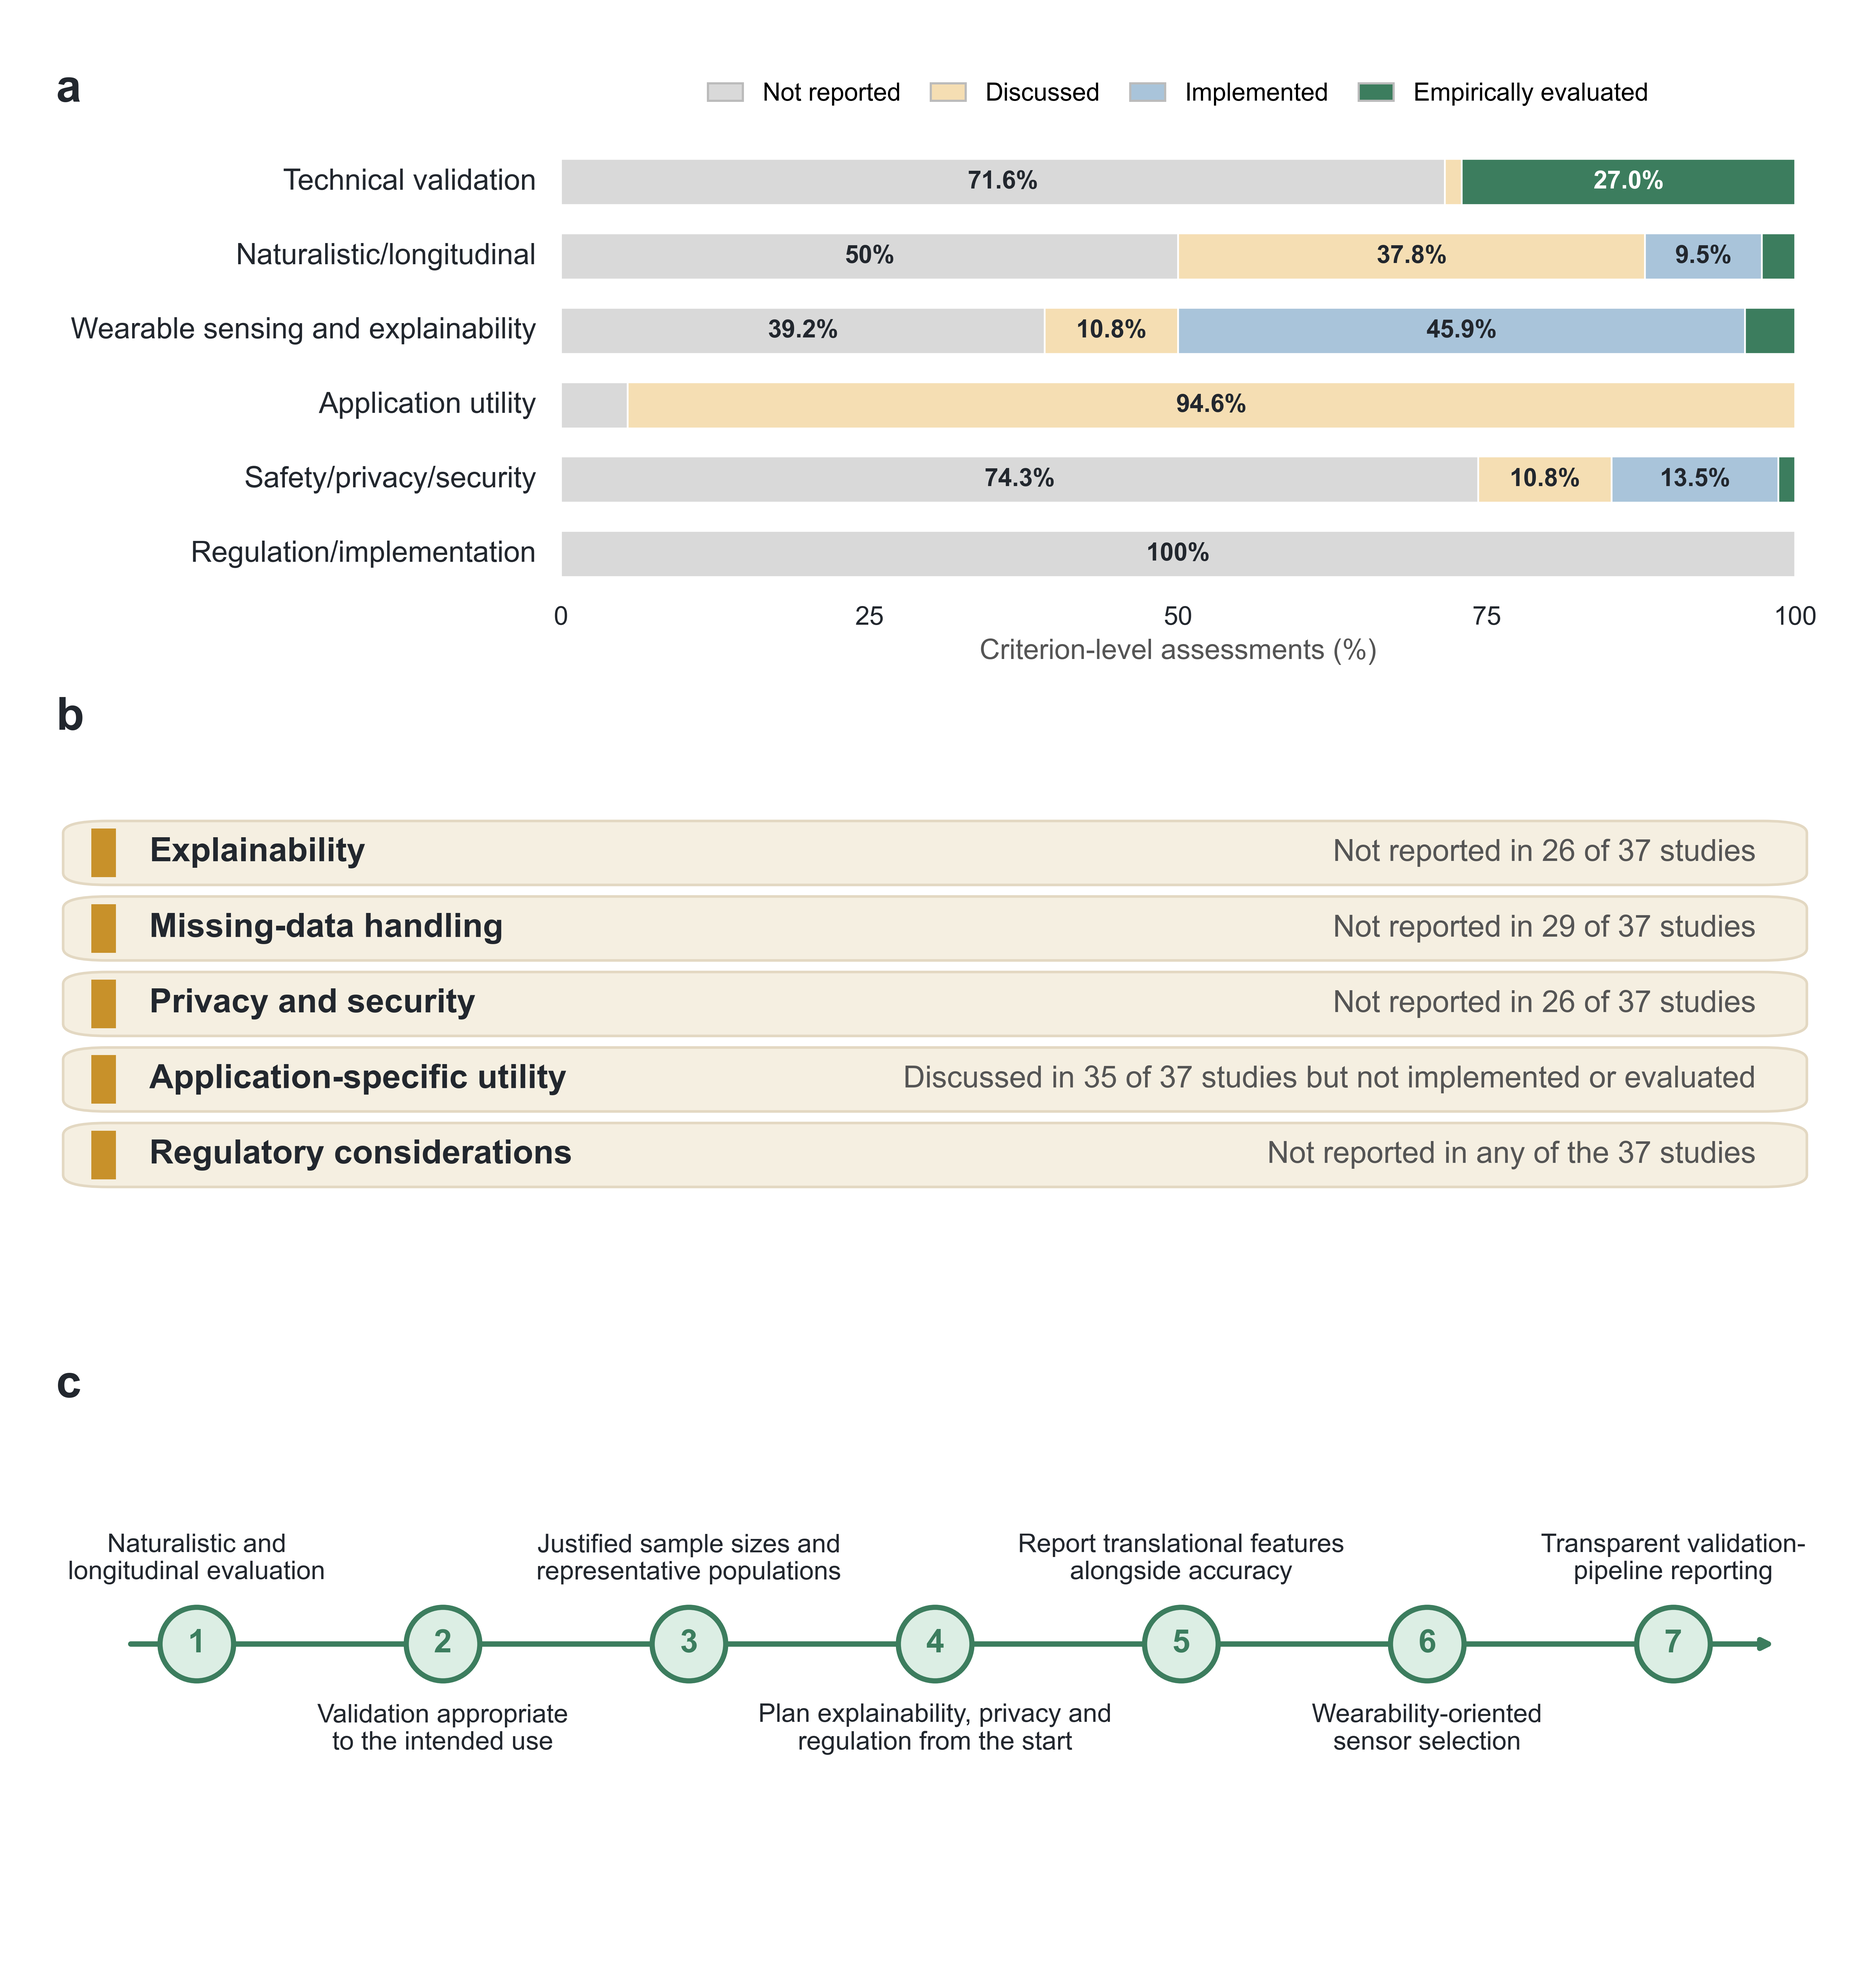
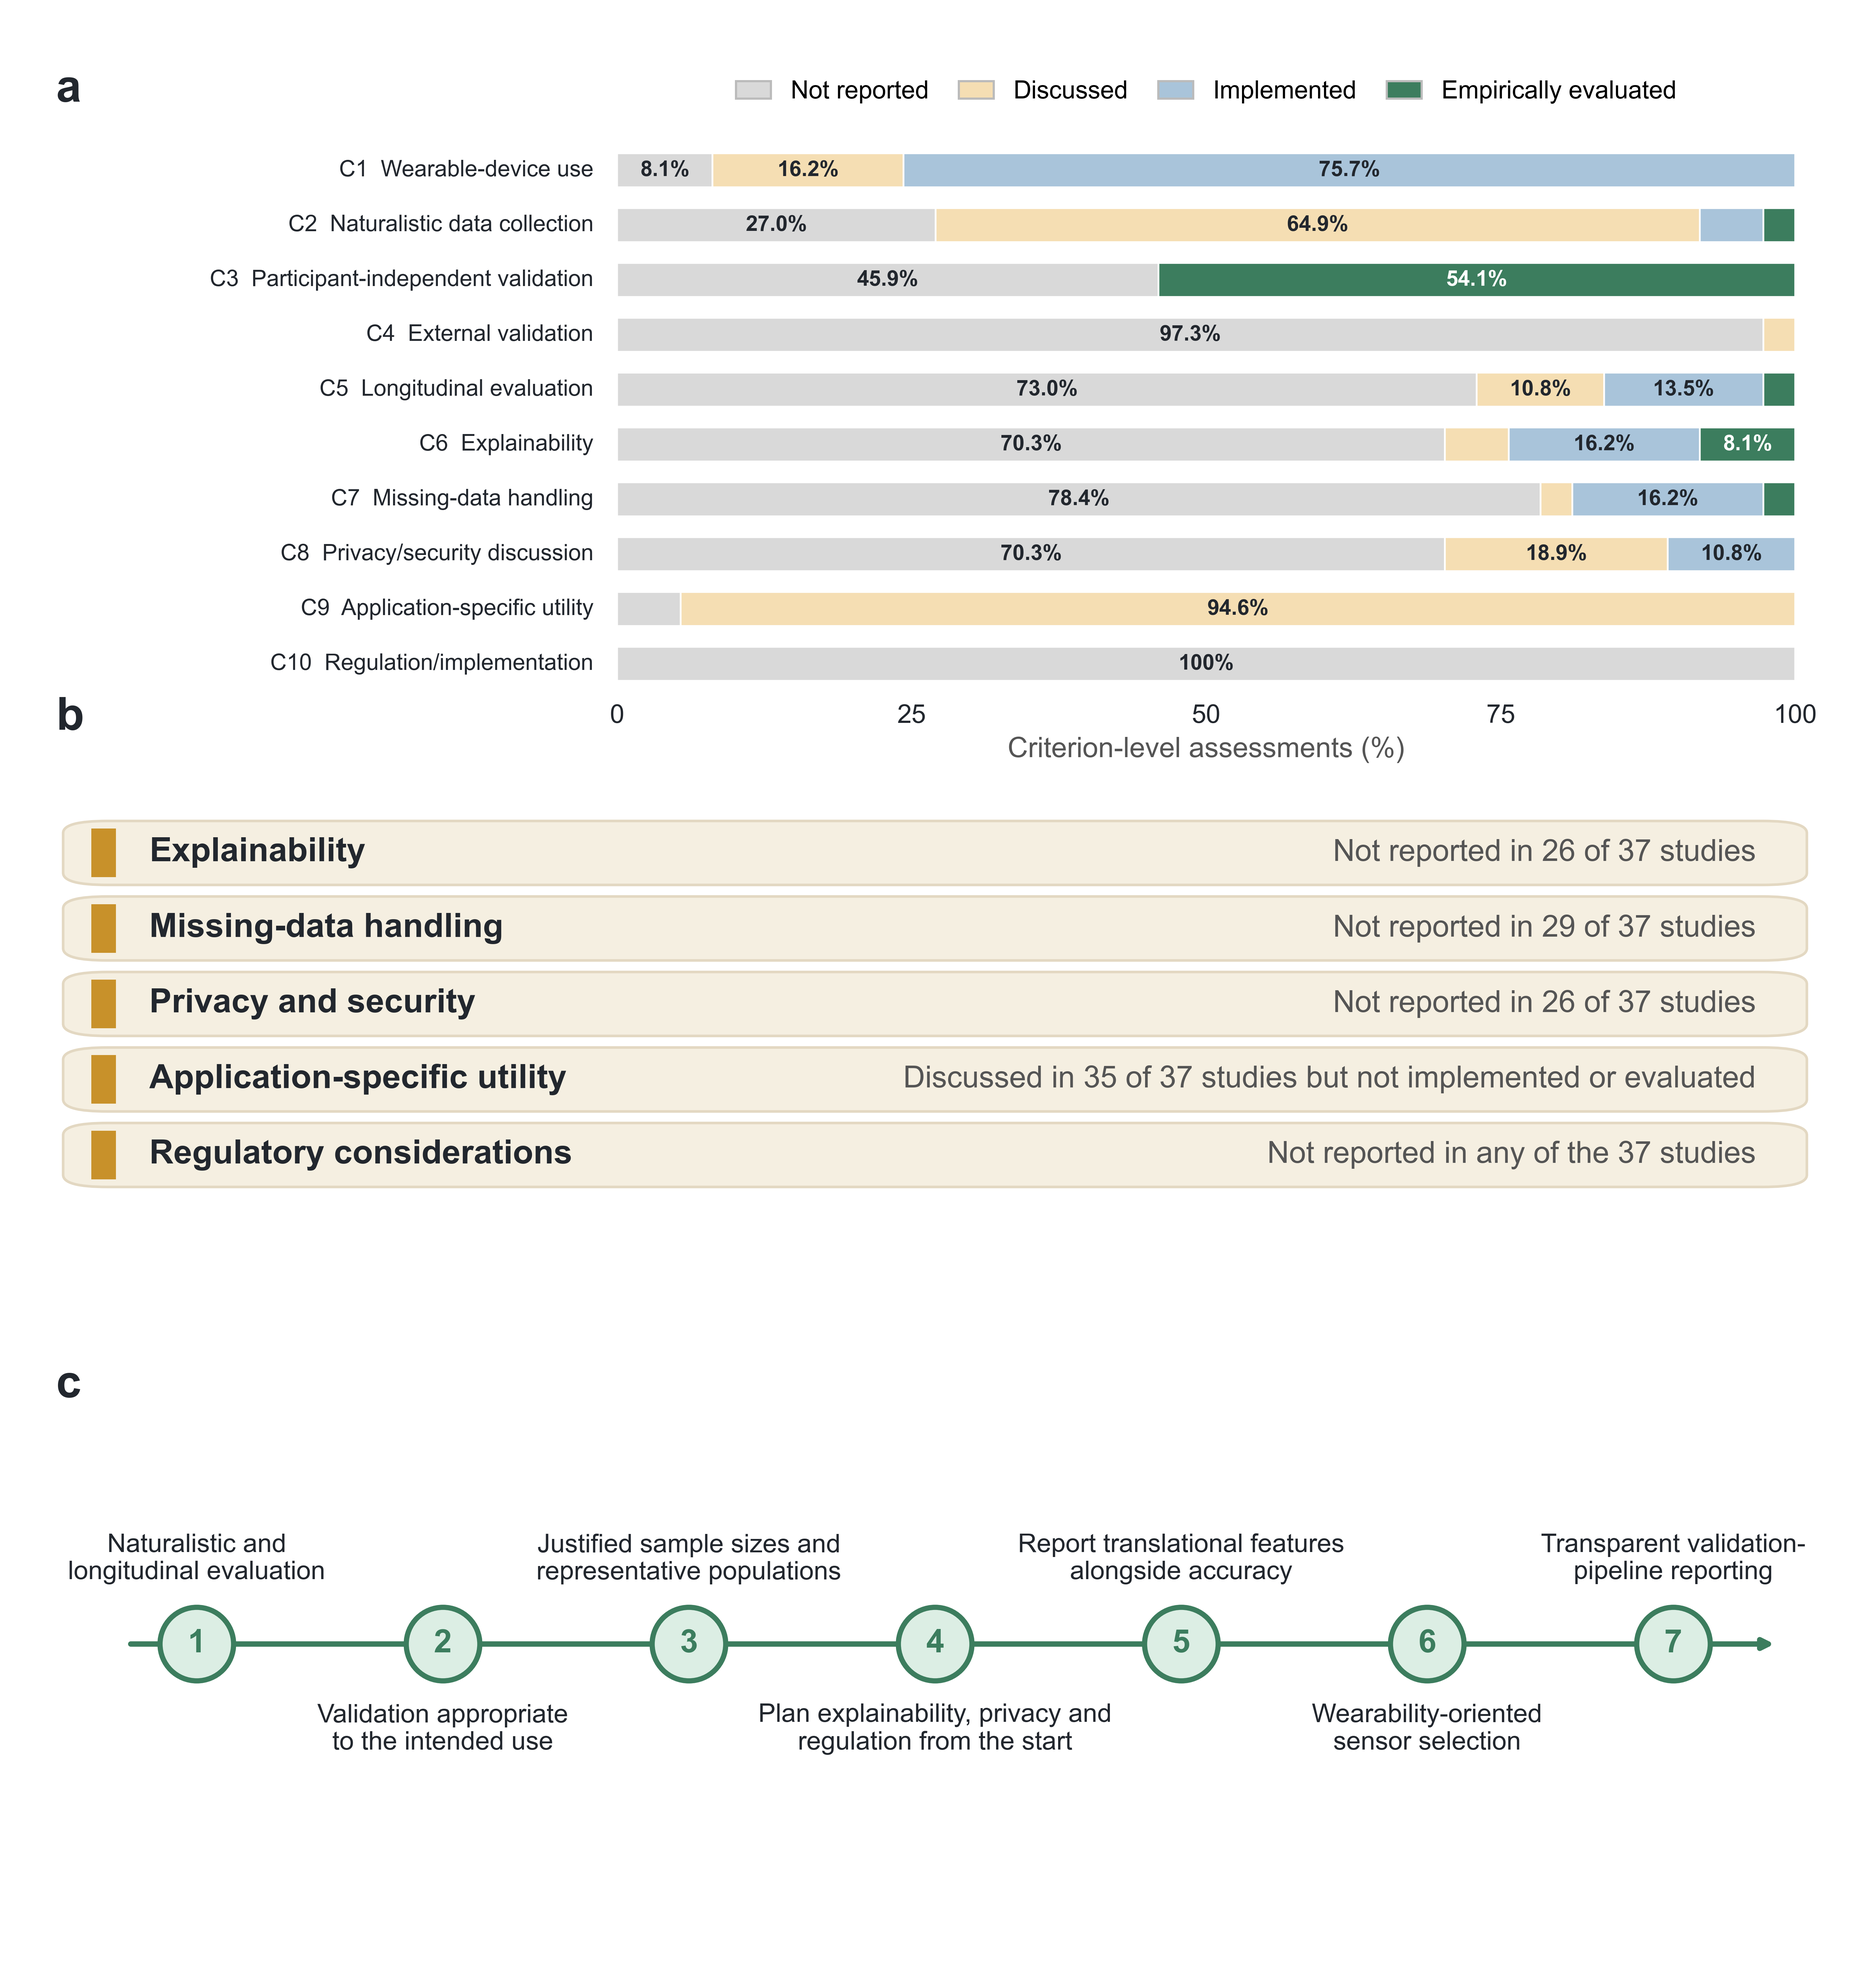
Present RTFP criteria individually in figure

Changed region(s): [[0.0623, 0.0311, 0.9662, 0.4044]]

diff --git a/figures/fig7_rtfp.py b/figures/fig7_rtfp.py
@@ -18,11 +18,15 @@ def col(c):
     return [int(r[f'C{c}']) for r in rows]
 
 domains = [
-    ('Technical validation', 'C3–C4', [3, 4]),
-    ('Naturalistic/longitudinal', 'C2, C5', [2, 5]),
-    ('Wearable sensing and explainability', 'C1, C6', [1, 6]),
-    ('Application utility', 'C9', [9]),
-    ('Safety/privacy/security', 'C7–C8', [7, 8]),
+    ('Wearable-device use', 'C1', [1]),
+    ('Naturalistic data collection', 'C2', [2]),
+    ('Participant-independent validation', 'C3', [3]),
+    ('External validation', 'C4', [4]),
+    ('Longitudinal evaluation', 'C5', [5]),
+    ('Explainability', 'C6', [6]),
+    ('Missing-data handling', 'C7', [7]),
+    ('Privacy/security discussion', 'C8', [8]),
+    ('Application-specific utility', 'C9', [9]),
     ('Regulation/implementation', 'C10', [10]),
 ]
 level_names = ['Not reported', 'Discussed', 'Implemented', 'Empirically evaluated']
@@ -44,7 +48,7 @@ GREEN_FACE, GREEN_EDGE, NUM = '#DCEEE4', '#3C7D5E', '#3C7D5E'
 plt.rcParams.update({'font.family': 'Arial'})
 
 fig = plt.figure(figsize=(12, 12.6))
-axa = fig.add_axes([0.30, 0.695, 0.66, 0.235])
+axa = fig.add_axes([0.33, 0.645, 0.63, 0.285])
 axb = fig.add_axes([0.03, 0.375, 0.94, 0.245])
 axc = fig.add_axes([0.03, 0.035, 0.94, 0.255])
 
@@ -56,13 +60,13 @@ for (name, items, cs), pcts, y in zip(domains, profile, ypos):
         if p > 0:
             axa.barh(y, p, left=left, height=0.62, color=colr, zorder=3,
                      edgecolor='white', linewidth=0.8)
-            if p >= 8:
+            if p >= 7:
                 lbl = f'{p:.0f}%' if abs(p - round(p)) < 1e-9 else f'{p:.1f}%'
                 axa.text(left + p / 2, y, lbl, va='center', ha='center',
-                         fontsize=11.5, fontweight='bold',
+                         fontsize=10, fontweight='bold',
                          color='white' if k == 3 else DARK)
         left += p
-    axa.text(-2, y, name, va='center', ha='right', fontsize=13.5, color=DARK)
+    axa.text(-2, y, f'{items}  {name}', va='center', ha='right', fontsize=10.5, color=DARK)
 
 axa.set_xlim(0, 100)
 axa.set_ylim(-0.6, len(domains) - 0.4)
